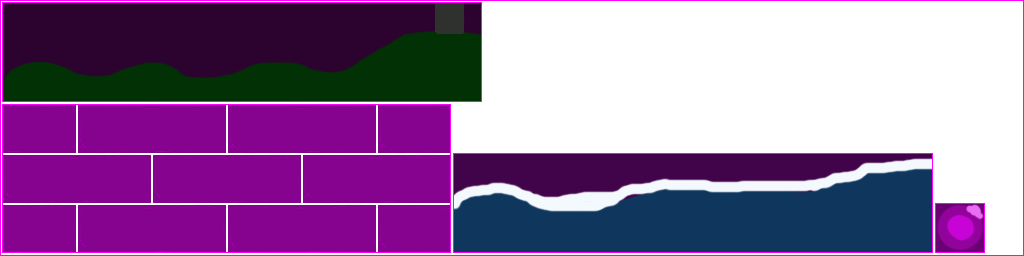
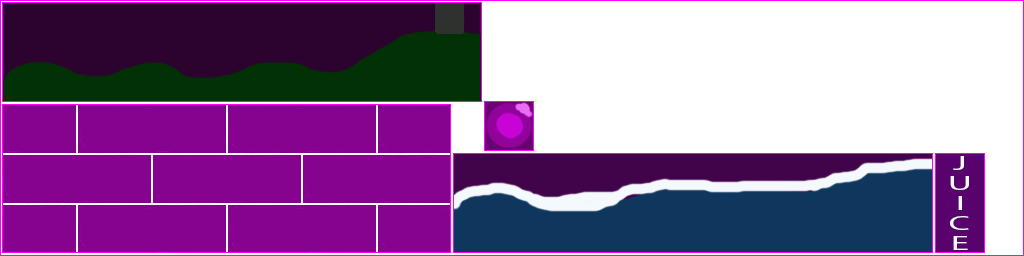
Added Box Asset

Changed region(s): [[0.9062, 0.5938, 0.9688, 0.9688], [0.4688, 0.375, 0.5312, 0.5938]]

diff --git a/core/src/com/mygdx/game/game/Assets.java b/core/src/com/mygdx/game/game/Assets.java
@@ -23,7 +23,7 @@ public class Assets implements Disposable, AssetErrorListener {
 	public AssetFonts fonts;
 	public AssetJelly jelly;
 	public AssetBrick brick;
-	//public AssetGoldCoin box;
+	public AssetBox box;
 	//public AssetFeather bottle;
 	public AssetLevelDecoration levelDecoration;
 
@@ -70,11 +70,11 @@ public class Assets implements Disposable, AssetErrorListener {
 		}
 	}
 
-	public class AssetGoldCoin {
-		public final AtlasRegion goldCoin;
+	public class AssetBox {
+		public final AtlasRegion box;
 
-		public AssetGoldCoin (TextureAtlas atlas) {
-			goldCoin = atlas.findRegion("item_gold_coin");
+		public AssetBox (TextureAtlas atlas) {
+			box = atlas.findRegion("Box");
 		}
 	}
 
@@ -129,7 +129,7 @@ public class Assets implements Disposable, AssetErrorListener {
 		fonts = new AssetFonts();
 		jelly = new AssetJelly(atlas);
 		brick = new AssetBrick(atlas);
-		//goldCoin = new AssetGoldCoin(atlas);
+		box = new AssetBox(atlas);
 		//feather = new AssetFeather(atlas);
 		levelDecoration = new AssetLevelDecoration(atlas);
 	}
